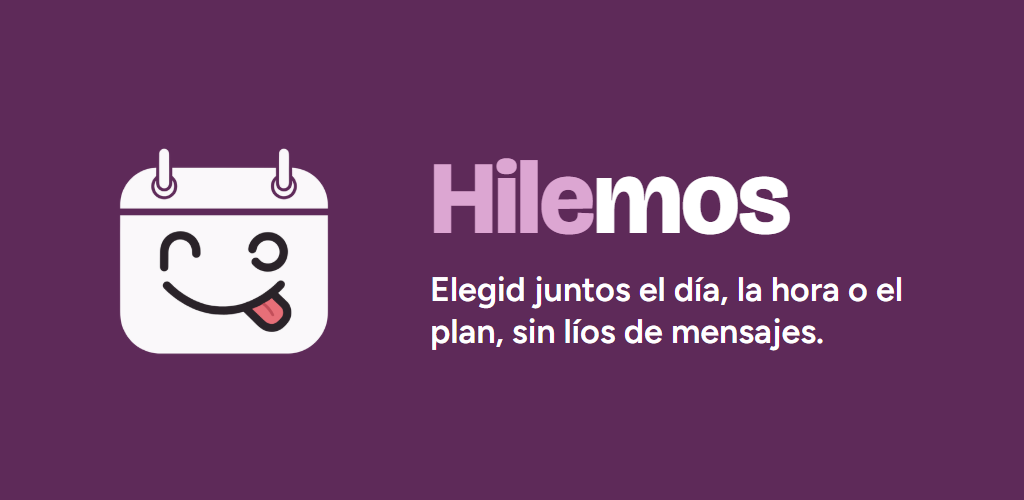
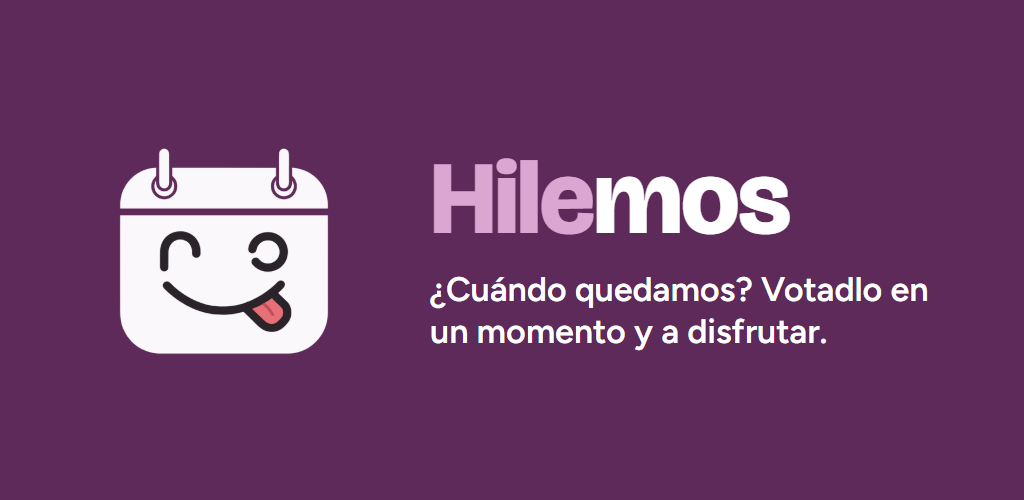
Ficha de Google Play con tono desenfadado, para quedar con amigos y familia
Descripción breve y completa reescritas (planes de verdad: la cena de Navidad, el cumple, la escapada; lo de grupos
grandes, al final), una línea por párrafo para pegarla tal cual en Play Console, y la frase de la imagen destacada:
«¿Cuándo quedamos? Votadlo en un momento y a disfrutar.». La skill textos lo recoge para lo que se lea fuera de la app.

Changed region(s): [[0.4062, 0.54, 0.9062, 0.72]]

diff --git a/docs/ficha-google-play/textos.md b/docs/ficha-google-play/textos.md
@@ -11,48 +11,40 @@ Hilemos
 
 ## Descripción breve (80 caracteres como mucho)
 
-Votad en grupo el día, la hora o el plan y quedad sin líos de mensajes.
+¿Cuándo quedamos? Votadlo en un momento y olvidaos de los mil mensajes.
 
 ## Descripción completa (4.000 caracteres como mucho)
 
-¿Cuándo quedamos? ¿Comida o cena? ¿Italiano o japonés? Con Hilemos se acaban los mensajes cruzados en el grupo:
-creas una votación, compartes el enlace y cada uno marca lo que le viene bien. En un vistazo se ve lo que gana.
+Cada párrafo y cada viñeta van en una sola línea, para copiarla y pegarla tal cual en Play Console.
 
-CREA UNA VOTACIÓN EN UN MINUTO
-• Por días, con hasta cuatro opciones por día (comida, cena, tarde…).
-• Por horas: franjas de 30 minutos, 1 o 2 horas, u horas sueltas distintas cada día.
-• Por semanas o por meses, para viajes y vacaciones.
-• De opciones libres: restaurante, regalo, destino… con su emoji.
+¿Cuándo quedamos? ¿Viernes o sábado? ¿Pizza o sushi? Si en tu grupo cada plan acaba en cien mensajes y nadie se aclara, Hilemos es para vosotros.
 
-COMPÁRTELA COMO QUIERAS
-• Por WhatsApp, Telegram, correo, código QR o con el menú de compartir del móvil.
-• Quien la abre puede votar al momento, también sin crearse una cuenta: basta con su nombre.
+Creas una votación, la mandas por WhatsApp y cada uno marca lo que le viene bien. En un momento veis qué gana. Y a quedar.
 
-VOTA Y MIRA EL RESULTADO
-• Pulsa en las casillas que te vengan bien; puedes cambiar tu voto hasta que se cierre.
-• La más votada sale marcada en verde y las cinco primeras, ordenadas.
-• ¿Empate? Abre un desempate entre las empatadas y cada uno elige una.
-• Votos visibles o anónimos, según prefieras.
-• Añade el resultado a tu calendario o comparte una imagen con la ganadora.
+PARA TODOS VUESTROS PLANES
+• La cena de Navidad con la familia, el cumple, la escapada con los amigos, el partido del domingo…
+• Votad días (con comida, cena o lo que se os ocurra), horas, semanas, meses o una lista de opciones: restaurante, regalo, destino.
 
-TODO EL GRUPO EN UN SITIO
-• Chat en cada votación para rematar los detalles.
-• Avisa a quien falta por votar con un mensaje listo para enviar.
-• Avisos cuando alguien vota, se cierra la votación o hay un desempate.
-• Organiza tus votaciones en grupos: familia, amigos, trabajo, el club…
+FÁCIL PARA TODO EL GRUPO
+• Comparte el enlace por WhatsApp, Telegram, correo o con un código QR.
+• Tus amigos y tu familia pueden votar sin registrarse: les basta con poner su nombre.
+• Cada uno cambia su voto cuando quiera, hasta que se cierre.
 
-PARA ORGANIZAR CON MÁS CONTROL
-• Plazo para votar, máximo de personas, aprobar a quien entra o dejar entrar solo a unos correos.
-• Nombra a otras personas para que gestionen la votación contigo.
-• Exporta los resultados en CSV, Excel o PDF.
+EL RESULTADO, CLARITO
+• Lo que gana sale marcado en verde.
+• ¿Empate? Lo desempatáis en un momento entre las empatadas.
+• Manda al grupo una imagen con el resultado o apúntalo en tu calendario.
 
-TUS DATOS, CUIDADOS
-• Sin anuncios.
-• Puedes descargar tus datos o eliminar tu cuenta desde la app cuando quieras.
-• Modo oscuro y funciona también en el navegador, en hilemos.web.app.
+Y ADEMÁS
+• Un chat en cada votación para rematar los detalles: quién reserva, quién lleva el postre…
+• Un mensaje listo para darle un toque a quien aún no ha votado.
+• Avisos cuando alguien vota o se cierra la votación.
+• Grupos para tener ordenadas tus votaciones: familia, amigos, el equipo…
+• Modo oscuro.
 
-Votar, ver los resultados, desempatar, el chat y los grupos son gratis.
+¿Organizas algo más grande, como una boda o una quedada del club? También puedes poner un plazo para votar, decidir quién entra, nombrar a otros organizadores y sacar los resultados en Excel o PDF.
 
+Sin anuncios. Votar, ver el resultado y el chat son gratis. También funciona desde el navegador, en hilemos.web.app. 
 ## Gráficos
 
 | Campo | Archivo | Medidas |

diff --git a/.claude/skills/textos/SKILL.md b/.claude/skills/textos/SKILL.md
@@ -8,6 +8,12 @@ description: Cómo se escriben los textos de Hilemos — interfaz (botones, avis
 La app la usa gente que no es técnica para quedar con su grupo. Los textos tienen que entenderse a la primera y no
 asustar. Todo va en **castellano de España**: la interfaz, los comentarios del código, los commits y la documentación.
 
+**El tono es desenfadado y cercano**: Hilemos es sobre todo para quedar con los amigos y la familia (la cena de
+Navidad, el cumple, la escapada), no una herramienta de empresa. Se nota sobre todo en lo que se lee fuera de la app
+(la ficha de Google Play en `docs/ficha-google-play/`, la imagen destacada, los avisos para todos de `config/app`):
+ejemplos de planes de verdad, frases cortas, algún guiño. Los grupos grandes, las asociaciones y lo «profesional»
+van en segundo plano.
+
 ## En la interfaz
 
 - **Frases normales y cortas**, con su punto. Tuteo («Pulsa en los días que te vengan bien»).
